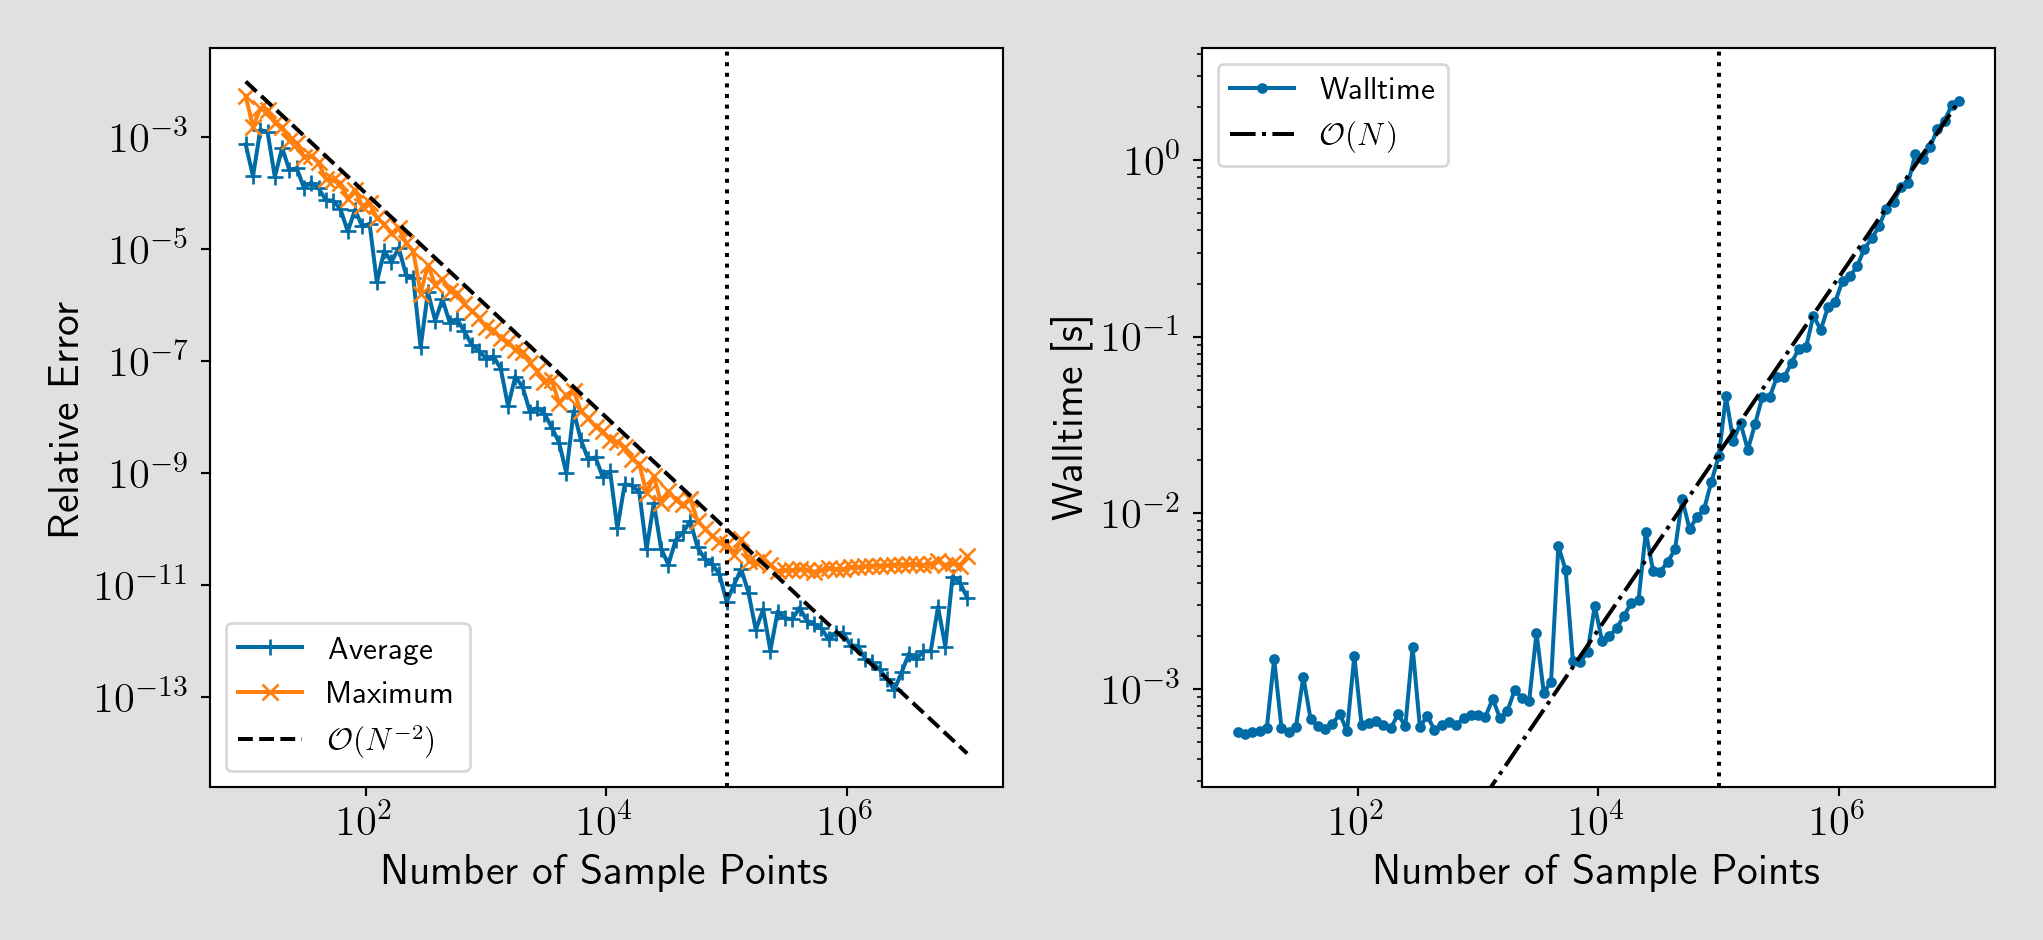
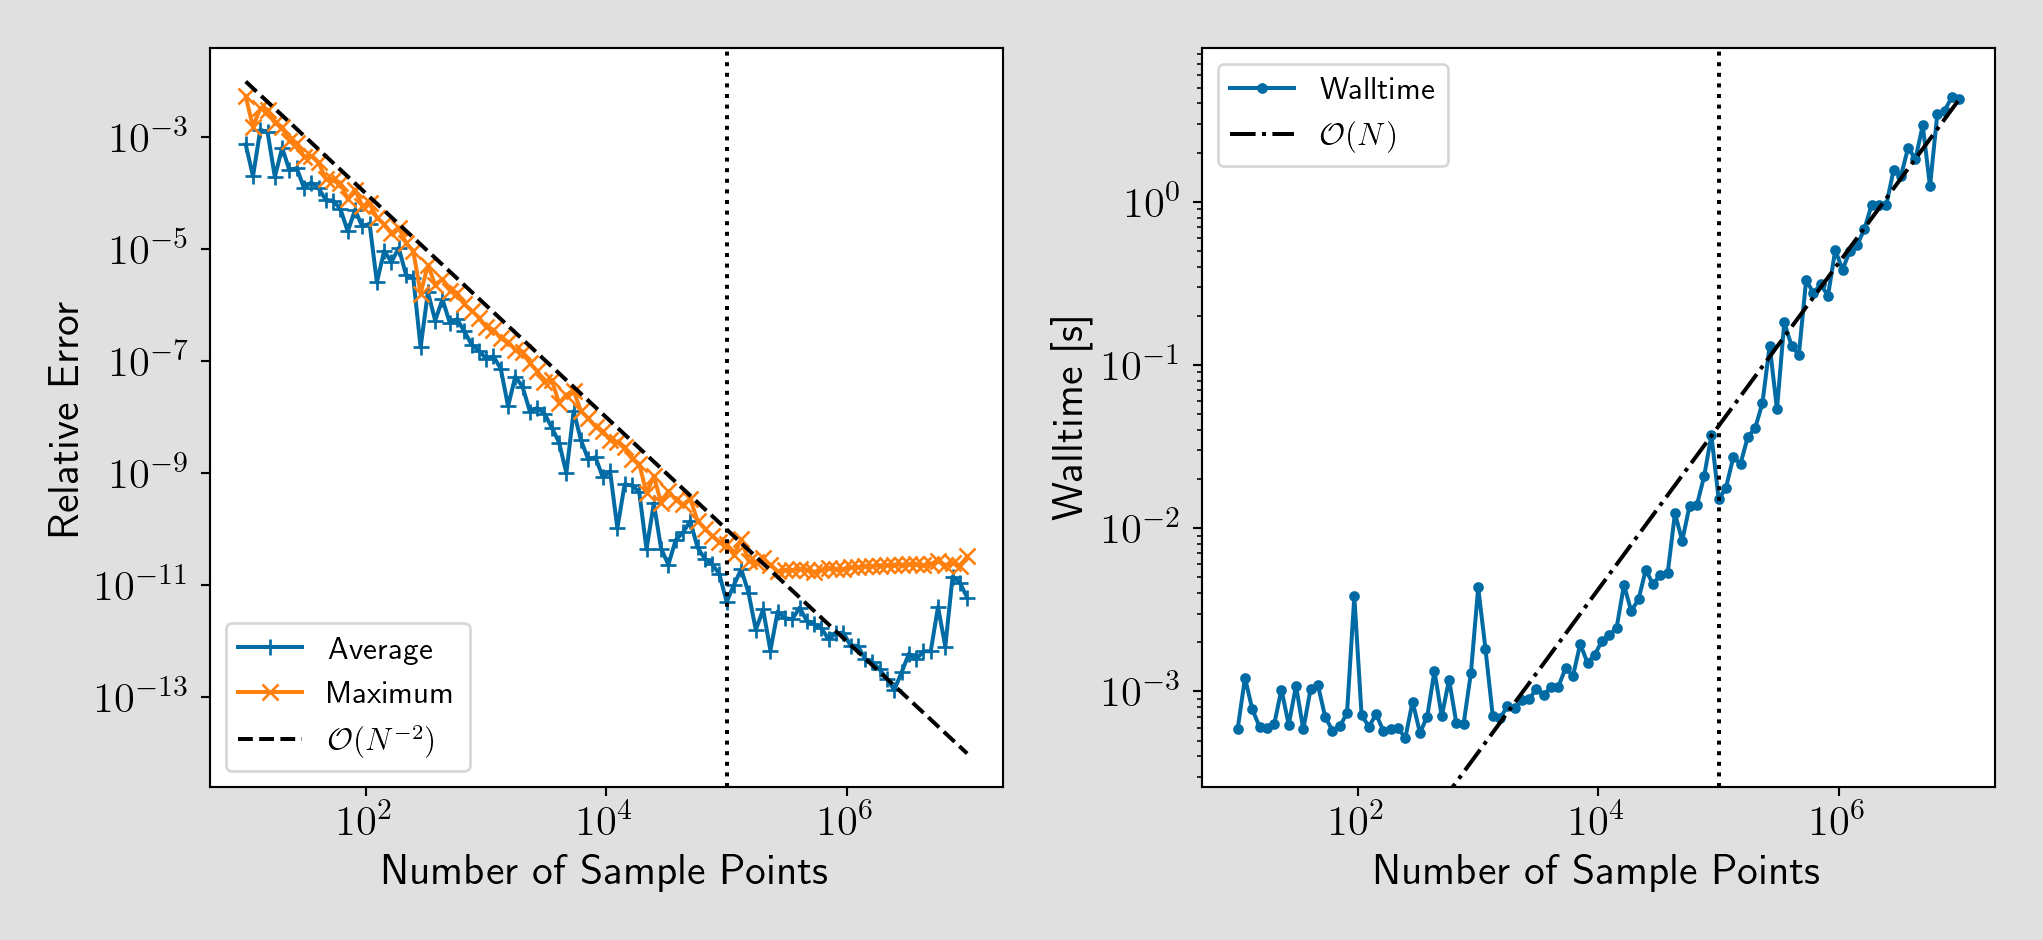
try to fix notebook image issues

diff --git a/docs/hooks.py b/docs/hooks.py
@@ -1,0 +1,24 @@
+import re
+
+
+def on_page_content(html, page, **kwargs):
+    """Adjust relative image src paths in notebook-generated pages.
+
+    mkdocs-jupyter serves docs/examples/foo.ipynb at examples/foo/ (one level
+    deeper due to use_directory_urls=true). A bare relative path like
+    'images/foo.png' works correctly in local Jupyter (where cwd is the
+    notebook's parent directory) but resolves one level too deep on the site.
+    This hook prepends '../' to any such paths so they resolve correctly for
+    both contexts.
+    """
+    if not page.file.src_path.endswith(".ipynb"):
+        return html
+
+    # Prepend '../' to img src values that are bare relative paths,
+    # i.e. not already starting with http(s):, data:, /, or ../
+    html = re.sub(
+        r'(<img\b[^>]*\bsrc=")(?!https?:|data:|/|\.\./)([^"]*")',
+        r"\1../\2",
+        html,
+    )
+    return html